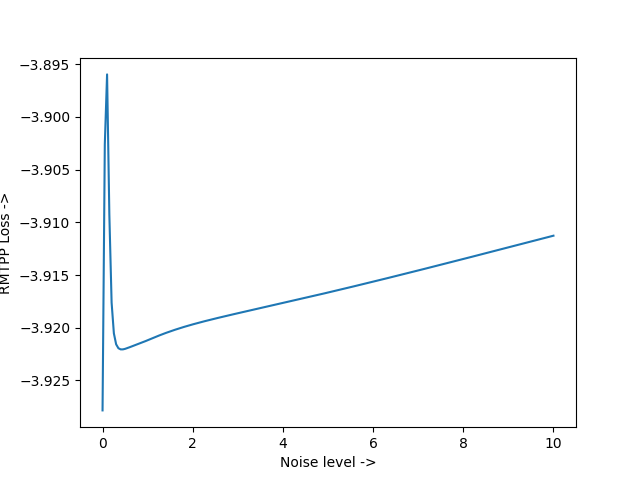
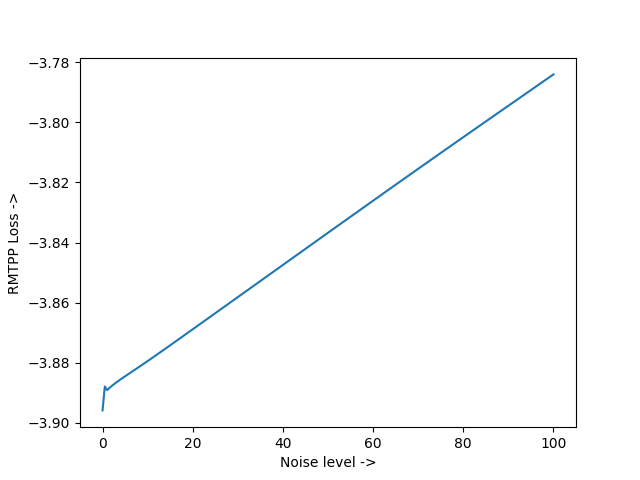
rmtpp loss z=0 to 100

diff --git a/noise.py b/noise.py
@@ -63,7 +63,7 @@ def evaluate_noise():
 def evaluate_noise_loss():
     model.eval()
 
-    errors = np.linspace(0,10,200)
+    errors = np.linspace(0,100,200)
     losses = []
 
     for z in errors:
@@ -195,6 +195,6 @@ if __name__=="__main__":
 
         evaluate()
 
-    evaluate_noise()
-    #evaluate_noise_loss()
+    #evaluate_noise()
+    evaluate_noise_loss()
     #evaluate_noise_loss_gradient()
